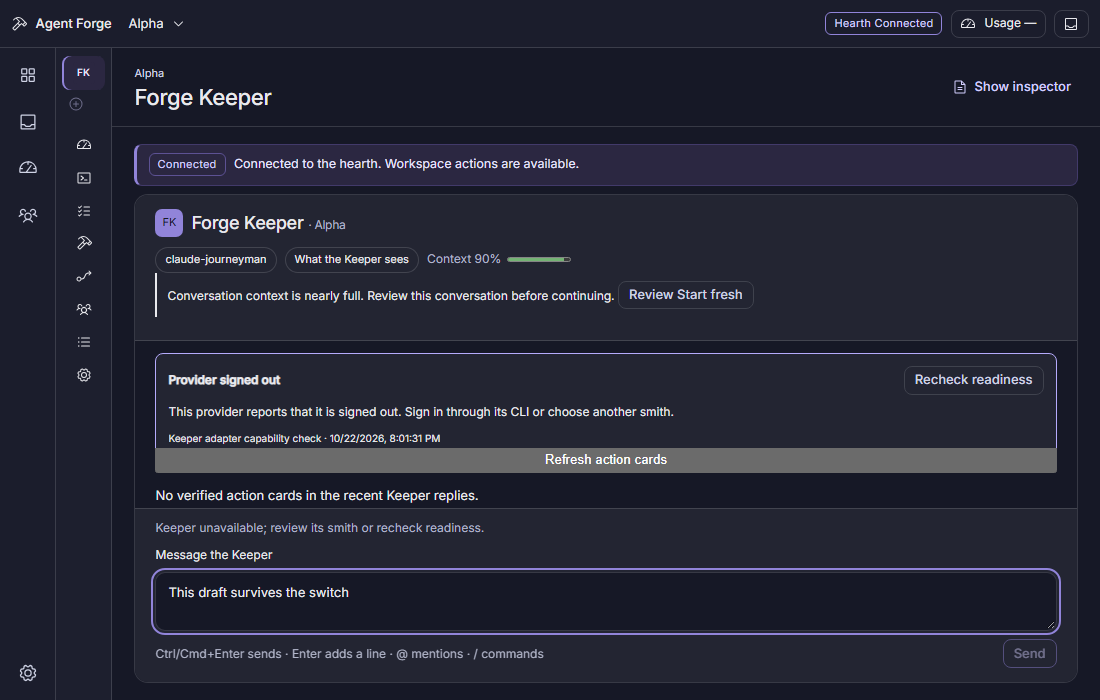
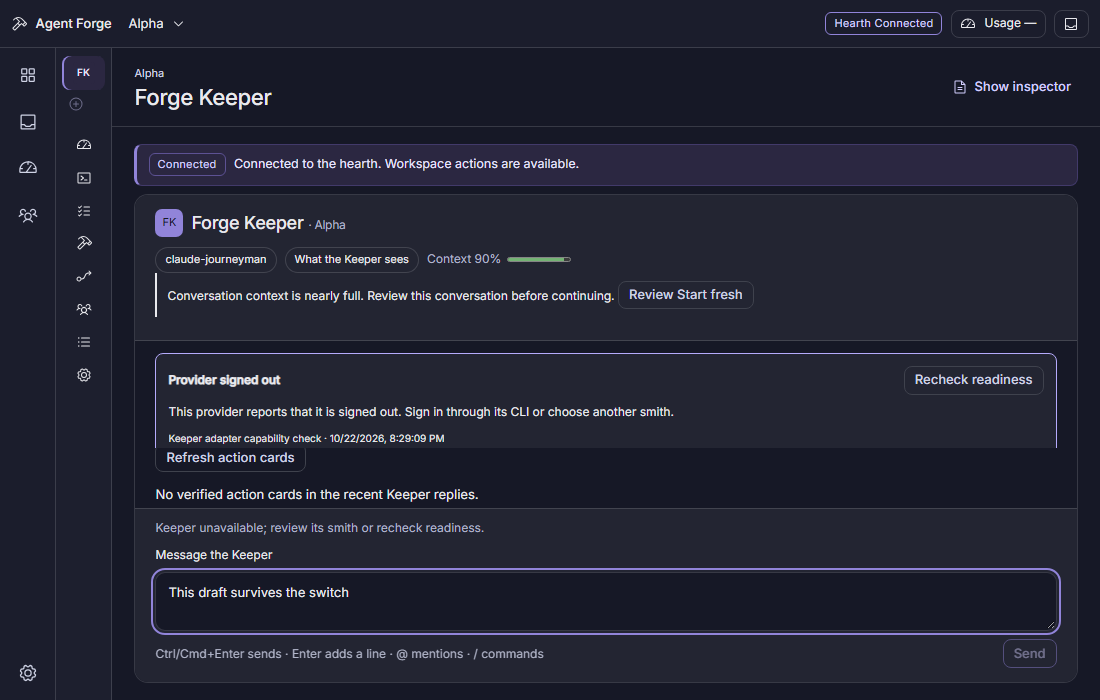
fix(desktop): retain focus during Keeper readiness reads
Keep recheck controls keyboard reachable during held reads and prevent duplicate requests. Verify exact reviewed whitespace in the real-hearth recovery flow.

Refs: agent-forge-harness-cla5.3.5

Changed region(s): [[0.1236, 0.6, 0.9582, 0.72]]

diff --git a/tests/desktop-e2e/keeper-recovery.spec.ts b/tests/desktop-e2e/keeper-recovery.spec.ts
@@ -177,7 +177,7 @@ test("Start fresh retains exactly the reviewed summary and old history, then sta
   await expect(page.locator(".af-keeper-context")).toBeVisible();
   await page.getByRole("button", { name: "Review Start fresh" }).click();
   const summary =
-    "Operator-reviewed summary: keep the agreed scope. <img src=x onerror=alert(1)>";
+    "  Operator-reviewed summary: keep the agreed scope. <img src=x onerror=alert(1)>\n";
   await page
     .getByRole("textbox", {
       name: "Retained summary (review before continuing)",
@@ -216,6 +216,55 @@ test("Start fresh retains exactly the reviewed summary and old history, then sta
   expect(record().argv).toContain("--resume");
   expect(record().input.message).toBe("Next turn");
   expect(state().frames.slice(0, before.frames.length)).toEqual(before.frames);
+});
+
+test("rechecking readiness keeps keyboard focus and prevents duplicate reads while the answer is held", async ({
+  page,
+}) => {
+  await openSettled(page, `/index.html#/desktop/project/${alpha.id}/keeper`);
+  const recheck = page.getByRole("button", {
+    name: "Recheck readiness",
+    exact: true,
+  });
+  await expect(recheck).toBeEnabled();
+  let checks = 0,
+    release: (() => void) | undefined,
+    began: (() => void) | undefined;
+  const held = new Promise<void>((resolve) => {
+    release = resolve;
+  });
+  const started = new Promise<void>((resolve) => {
+    began = resolve;
+  });
+  await page.route(
+    "**/__agent-forge/projects/*/keeper/recovery*",
+    async (route) => {
+      checks++;
+      began?.();
+      await held;
+      const response = await forwarded(route);
+      await route.fulfill({ response });
+    },
+  );
+  try {
+    await recheck.focus();
+    await page.keyboard.press("Enter");
+    await started;
+    await expect(recheck).toBeFocused();
+    await expect(recheck).toHaveAttribute("aria-disabled", "true");
+    await page.keyboard.press("Enter");
+    await page.keyboard.press("Space");
+    expect(checks).toBe(1);
+    release?.();
+    await expect(recheck).toHaveAttribute("aria-disabled", "false");
+    await expect(recheck).toBeFocused();
+    expect(
+      await recheck.evaluate((node) => getComputedStyle(node).outlineWidth),
+    ).toBe("2px");
+  } finally {
+    release?.();
+    await page.unrouteAll({ behavior: "wait" });
+  }
 });
 
 test("exhaustion, missing Keeper adapter and unavailable reporting have distinct truthful copy and actions", async ({

diff --git a/apps/desktop/src/KeeperRecovery.tsx b/apps/desktop/src/KeeperRecovery.tsx
@@ -58,14 +58,16 @@ export function KeeperRecovery({
     >
       <div class="af-keeper-recovery-heading">
         <KeeperReadinessLabel readiness={selected?.readiness} />
-        <Button
+        <button
+          type="button"
+          class="af-btn af-btn-secondary"
+          aria-disabled={view.loading}
           onClick={() => {
-            void recovery.read(projectId);
+            if (!view.loading) void recovery.read(projectId);
           }}
-          disabled={view.loading}
         >
           Recheck readiness
-        </Button>
+        </button>
       </div>
       <p role="status">
         {view.loading && !page
@@ -84,14 +86,16 @@ export function KeeperRecovery({
       {view.notice && <p role="status">{view.notice}</p>}
       {view.pending && (
         <div class="af-keeper-recovery-actions">
-          <Button
-            disabled={view.loading}
+          <button
+            type="button"
+            class="af-btn af-btn-secondary"
+            aria-disabled={view.loading}
             onClick={() => {
-              void recovery.read(projectId);
+              if (!view.loading) void recovery.read(projectId);
             }}
           >
             Check original Keeper change
-          </Button>
+          </button>
           <Button
             disabled={!writesAllowed || view.posting}
             onClick={() => {
